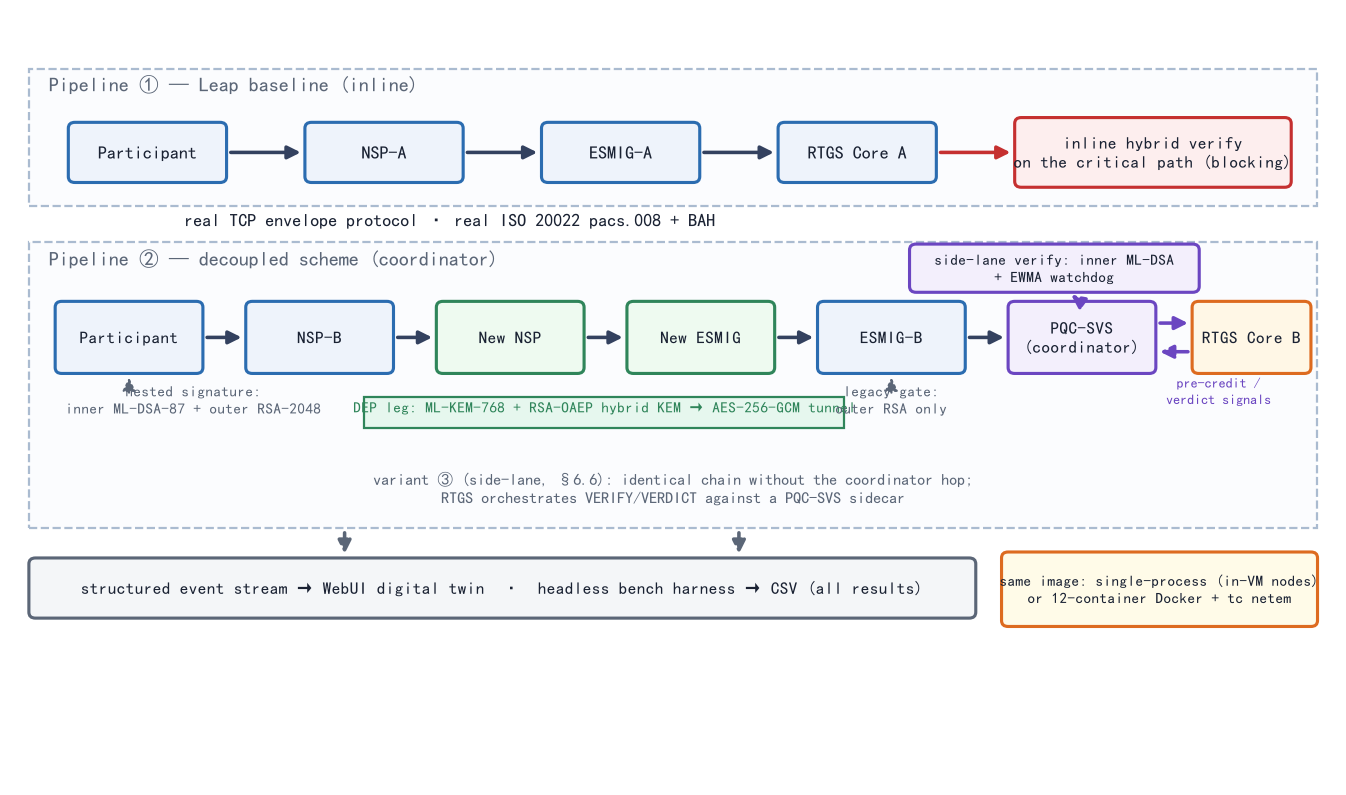
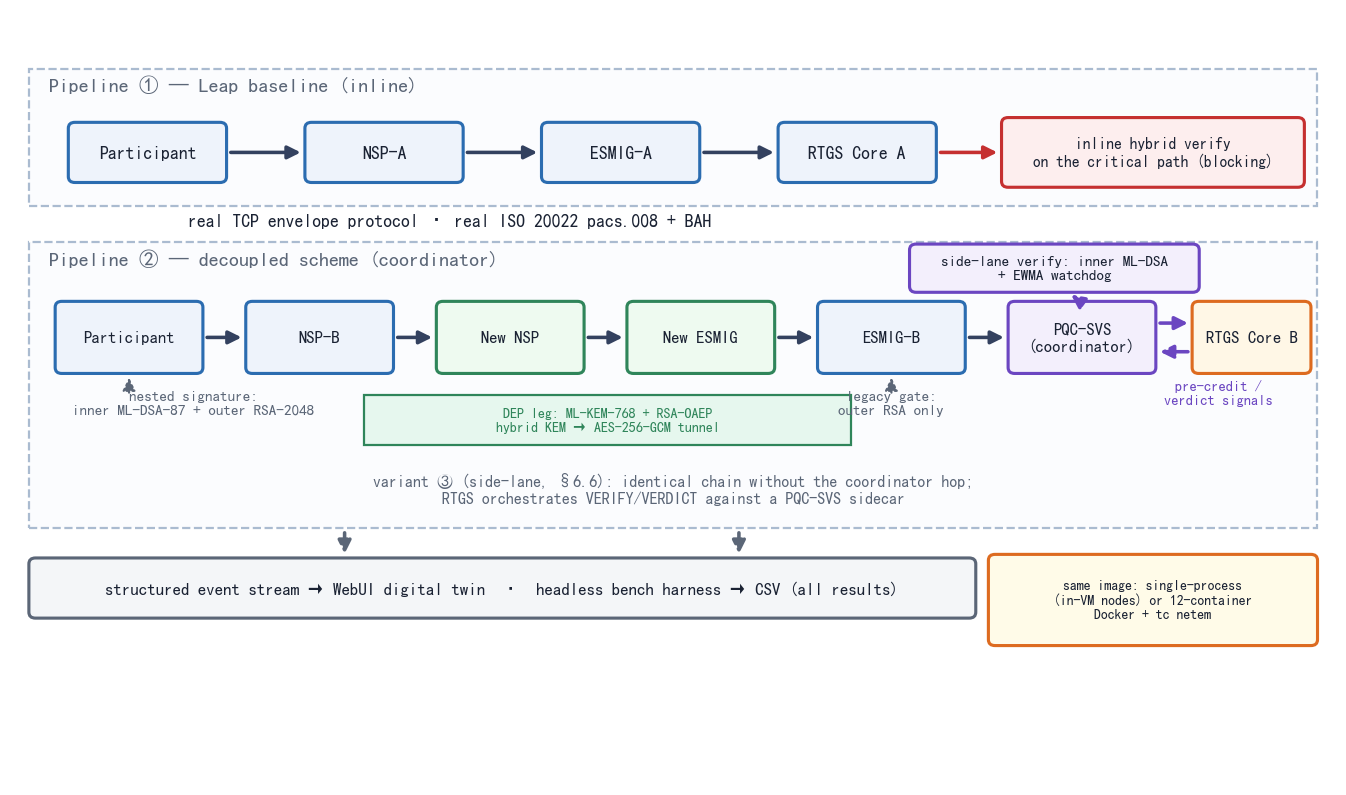
SideLane-RTGS v3.7: E10 sustained-load experiment, data correction (IEEE Access R1)
- New experiment E10 (bench/out/E10_sustained_load.csv): sustained arrival at
  the Leap operating point with equal verifier budgets for both pipelines;
  reports decision vs. final latency, final-settlement throughput, pending
  exposure, tampered vs. watchdog rollbacks, reconciliation retries, drain time.
- JAR rebuilt (Java 17 bytecode, ProGuard 7.4.2, mapping continued from v3.6):
  bounded verifier pool, in-flight guard for watchdog retries, pending-set and
  rollback counters (all default-off; E2-E9 unchanged).
- Data correction: E8_crypto_microbench.csv now matches the paper's Fig. 4 /
  Table 5 (nested verify p50 = 123.5 us); the v3.6 copy came from a different
  run.
- README: v3.7 change notes; CITATION.cff: version 3.7.
- Architecture figures regenerated (E[Tpqc] label, line wrapping).

diff --git a/bench/arch_figs.py b/bench/arch_figs.py
@@ -37,13 +37,13 @@ T = {
   "nnsp":"New NSP","nesmig":"New ESMIG","svs":"PQC-SVS\n(coordinator)",
   "inline":"inline hybrid verify\non the critical path (blocking)",
   "nested":"nested signature:\ninner ML-DSA-87 + outer RSA-2048",
-  "dep":"DEP leg: ML-KEM-768 + RSA-OAEP hybrid KEM → AES-256-GCM tunnel",
+  "dep":"DEP leg: ML-KEM-768 + RSA-OAEP\nhybrid KEM → AES-256-GCM tunnel",
   "gate":"legacy gate:\nouter RSA only",
   "precredit":"pre-credit /\nverdict signals",
   "sidelane":"side-lane verify: inner ML-DSA\n+ EWMA watchdog",
   "variantC":"variant ③ (side-lane, §6.6): identical chain without the coordinator hop;\nRTGS orchestrates VERIFY/VERDICT against a PQC-SVS sidecar",
   "obs":"structured event stream → WebUI digital twin  ·  headless bench harness → CSV (all results)",
-  "deploy":"same image: single-process (in-VM nodes)\nor 12-container Docker + tc netem",
+  "deploy":"same image: single-process\n(in-VM nodes) or 12-container\nDocker + tc netem",
   "tcp":"real TCP envelope protocol · real ISO 20022 pacs.008 + BAH",
   "f2_title":"Fig. 2  Pre-credit / async-verify / compensating-rollback (S1–S4b), coordinator topology",
   "ln":["Participant","ESMIG (legacy)","PQC-SVS (coordinator)","RTGS ledger"],
@@ -52,7 +52,7 @@ T = {
   "m_s2":"S2  pre-credit instruction",
   "m_pend":"mark Pending\n(bounded exposure)",
   "m_prov":"provisional receipt PRECREDITED  —  settlement decision ≈ 4 ms",
-  "m_s3":"S3  verify inner ML-DSA off the critical path\nwatchdog: T_timeout ≥ E[Tc] + 2·T_RTT + k·σ (EWMA, online)",
+  "m_s3":"S3  verify inner ML-DSA off the critical path\nwatchdog: T_timeout ≥ E[Tpqc] + 2·T_RTT + k·σ (EWMA, online)",
   "alt_a":"S4a — verdict VALID","m_s4a":"VERDICT: VALID","m_commit":"commit\n(settled)","m_fin_a":"final receipt SETTLED",
   "alt_b":"S4b — invalid / watchdog exhausted (≤ 20 reconcile retries)",
   "m_s4b":"VERDICT: INVALID  /  retry budget exhausted","m_roll":"compensating\nrollback","m_fin_b":"final receipt ROLLED_BACK",
@@ -64,13 +64,13 @@ T = {
   "nnsp":"New NSP","nesmig":"New ESMIG","svs":"PQC-SVS\n(协同枢纽)",
   "inline":"内联混合验签\n(关键路径·阻塞)",
   "nested":"嵌套签名:\n内 ML-DSA-87 + 外 RSA-2048",
-  "dep":"DEP 段:ML-KEM-768 + RSA-OAEP 混合 KEM → AES-256-GCM 隧道",
+  "dep":"DEP 段:ML-KEM-768 + RSA-OAEP\n混合 KEM → AES-256-GCM 隧道",
   "gate":"存量门控:\n仅验外层 RSA",
   "precredit":"预授信 /\n判定信令",
   "sidelane":"侧道验签:内层 ML-DSA\n+ EWMA 看门狗",
   "variantC":"变体③(侧道,§6.6):链路相同但无枢纽跳;\n由 RTGS 经 VERIFY/VERDICT 编排 PQC-SVS 侧车",
   "obs":"结构化事件流 → WebUI 数字孪生  ·  无头基准框架 → CSV(本文全部数据)",
-  "deploy":"同一镜像:单进程(VM 内节点)\n或 12 容器 Docker + tc netem",
+  "deploy":"同一镜像:单进程(VM 内节点)\n或 12 容器\nDocker + tc netem",
   "tcp":"真实 TCP 信封协议 · 真实 ISO 20022 pacs.008 + BAH",
   "f2_title":"图2  预授信/异步验签/补偿回滚(S1–S4b)·协同枢纽拓扑",
   "ln":["参与行","ESMIG(存量)","PQC-SVS(协同枢纽)","RTGS 账本"],
@@ -79,7 +79,7 @@ T = {
   "m_s2":"S2  预授信指令",
   "m_pend":"标记 Pending\n(敞口有界)",
   "m_prov":"临时回执 PRECREDITED — 结算决策 ≈ 4 ms",
-  "m_s3":"S3  侧道验签内层 ML-DSA(不在关键路径)\n看门狗:T_timeout ≥ E[Tc] + 2·T_RTT + k·σ(EWMA 在线)",
+  "m_s3":"S3  侧道验签内层 ML-DSA(不在关键路径)\n看门狗:T_timeout ≥ E[Tpqc] + 2·T_RTT + k·σ(EWMA 在线)",
   "alt_a":"S4a — 判定有效","m_s4a":"VERDICT: VALID","m_commit":"最终确认\n(settled)","m_fin_a":"最终回执 SETTLED",
   "alt_b":"S4b — 判定无效 / 看门狗耗尽(≤20 次对账重试)",
   "m_s4b":"VERDICT: INVALID / 重试预算耗尽","m_roll":"补偿回滚","m_fin_b":"最终回执 ROLLED_BACK",
@@ -98,8 +98,8 @@ def fig1(L, outdir):
     for x,t in zip(xs,[L["part"],L["nsp"]+"-A",L["esmig"]+"-A",L["rtgs"]+" A"]):
         box(ax,x,y1,bw,bh,t,fs=8)
     for i in range(3): arrow(ax,(xs[i]+bw,y1+bh/2),(xs[i+1],y1+bh/2))
-    box(ax,76,y1-0.4,21,5.8,L["inline"],fc="#fdeeee",ec=RED,fs=7.5)
-    arrow(ax,(xs[3]+bw,y1+bh/2),(76,y1+2.5),color=RED)
+    box(ax,75,y1-0.4,23,5.8,L["inline"],fc="#fdeeee",ec=RED,fs=7.0)
+    arrow(ax,(xs[3]+bw,y1+bh/2),(75,y1+2.5),color=RED)
     # —— 流水线② 方案 ——
     ax.add_patch(Rectangle((1,21),98,24,fc="#fbfcfe",ec="#aabbd0",lw=1.0,ls="--"))
     ax.text(2.5,43.0,L["p2"],fontsize=9,color=GREY,fontweight="bold")
@@ -115,8 +115,8 @@ def fig1(L, outdir):
     arrow(ax,(89.5,y2+1.8),(xs2[5]+w2,y2+1.8),color=PUR,ls="--")
     ax.text(91.5,y2-2.6,L["precredit"],fontsize=6.5,ha="center",color=PUR)
     # DEP 隧道带
-    ax.add_patch(Rectangle((26.5,y2-4.6),36.5,2.6,fc="#e6f7ee",ec=GREEN,lw=1.0))
-    ax.text(44.8,y2-3.3,L["dep"],fontsize=6.6,ha="center",color=GREEN)
+    ax.add_patch(Rectangle((26.5,y2-6.0),37,4.2,fc="#e6f7ee",ec=GREEN,lw=1.0))
+    ax.text(45,y2-3.9,L["dep"],fontsize=6.3,ha="center",va="center",color=GREEN)
     # 注释:嵌套签名 / 门控 / 侧道验签
     ax.text(13.5,y2-3.4,L["nested"],fontsize=6.8,ha="center",color=GREY)
     arrow(ax,(8.6,y2-2.0),(8.6,y2),color=GREY,lw=1.0,ls=":")
@@ -130,7 +130,7 @@ def fig1(L, outdir):
     ax.text(33,46.3,L["tcp"],fontsize=8,ha="center",color=INK)
     box(ax,1,13.5,72,5,L["obs"],fc="#f4f6f8",ec=GREY,fs=7.6)
     arrow(ax,(25,21),(25,18.5),color=GREY,ls="--"); arrow(ax,(55,21),(55,18.5),color=GREY,ls="--")
-    box(ax,75,12.8,24,6.2,L["deploy"],fc="#fffbe8",ec=ORANGE,fs=6.8)
+    box(ax,74,11.2,25,7.6,L["deploy"],fc="#fffbe8",ec=ORANGE,fs=6.2)
     save(fig,outdir,"fig1_testbed")
 
 # ============================== 图2 时序 ==============================
@@ -152,8 +152,8 @@ def fig2(L, outdir):
     selfnote(73.5,3,L["m_pend"],fc="#fff7e6")
     msg(68,3,0,L["m_prov"],color=ORANGE,ls="--")
     # S3 自循环(PQC-SVS)
-    box(ax,X[2]-20,58.2,40,6.4,L["m_s3"],fc="#f3effc",ec=PUR,fs=6.8)
-    arrow(ax,(X[2],64.6),(X[2],61.4),color=PUR)
+    box(ax,X[2]-21,58.2,42,6.4,L["m_s3"],fc="#f3effc",ec=PUR,fs=6.4)
+    arrow(ax,(X[2],66.8),(X[2],64.9),color=PUR)
     # alt 框
     ax.add_patch(Rectangle((3,10),94,44,fc="none",ec=GREY,lw=1.2))
     ax.text(4.5,52.0,"alt",fontsize=8,color=GREY,fontweight="bold")

diff --git a/README.md b/README.md
@@ -41,7 +41,7 @@ sim/docker/      Dockerfile + compose topologies (single image / 12-container ti
 setup-windows.bat                Windows one-click env-check + launcher menu
 setup-ubuntu.sh                  Linux one-click env-check + launcher menu
 sim/run_webui.ps1 / .sh          Interactive WebUI launcher (Windows / Linux)
-bench/run_bench.ps1 / .sh        One-click experiments E2–E8 → bench/out/*.csv
+bench/run_bench.ps1 / .sh        One-click experiments E2–E8 and E10 → bench/out/*.csv
 bench/e9_wan.py, e9_wan.ps1      Cross-container WAN-shaping harness (E9)
 bench/plot.py                    Regenerate all charts from CSVs (plot_cn.py: Chinese labels)
 bench/arch_figs.py               Regenerate architecture & sequence diagrams (Fig. 1–2)
@@ -66,7 +66,7 @@ No build step. Uses `native/windows-x64/dllpqcpro.dll`.
 # interactive digital-twin WebUI at http://127.0.0.1:8080
 powershell -ExecutionPolicy Bypass -File sim/run_webui.ps1
 
-# headless: run experiments E2-E8 (all, or a subset: e2 e5 ...)
+# headless: run experiments E2-E8 + E10 (all, or a subset: e2 e5 e10 ...)
 powershell -ExecutionPolicy Bypass -File bench/run_bench.ps1
 ```
 
@@ -83,7 +83,7 @@ Or run the launchers directly. Prereqs: Java 17+ runtime on `PATH`
 # interactive digital-twin WebUI at http://127.0.0.1:8080
 bash sim/run_webui.sh
 
-# headless: run experiments E2-E8 (all, or a subset: e2 e5 ...)
+# headless: run experiments E2-E8 + E10 (all, or a subset: e2 e5 e10 ...)
 bash bench/run_bench.sh
 ```
 
@@ -137,3 +137,17 @@ Scripts and data (`bench/`, `sim/docker/` build files): research/evaluation use 
 Executables (`sim/app/sidelane-sim.jar`, `native/` libraries): proprietary, run-only for
 research/replication, redistribution restricted — see [LICENSE](LICENSE) and `native/README.md`.
 Third-party components: see [THIRD_PARTY_NOTICES.md](THIRD_PARTY_NOTICES.md).
+
+## Changes in v3.7 (IEEE Access revision R1, September 2026)
+
+- **New experiment E10** (`bench/out/E10_sustained_load.csv`): sustained arrival at the Leap operating
+  point (verify = 210 ms) with *equal verifier budgets* for both pipelines (`W` = 1 or 4 bounded verifier
+  workers, applied to the inline baseline and to the side-lane verifier alike). Reports decision vs. final
+  latency, final-settlement throughput, maximum pending count / exposure, tampered vs. watchdog-induced
+  rollbacks, reconciliation retries and drain time. Run with `run_bench e10`.
+- **Node options** (used by E10 only; default off, so E2–E9 behave exactly as in v3.6): a bounded verifier
+  pool (`verifierWorkers`), an in-flight guard so that watchdog retries do not enqueue duplicate
+  verifications, a pending-set counter (`pendingCount`) and rollback counters.
+- **Data correction**: the `E8_crypto_microbench.csv` shipped in v3.6 came from a different (slower,
+  non-native) run than the one plotted in the paper's Fig. 4 / Table 5. v3.7 ships the CSV that matches
+  the paper (nested verify p50 = 123.5 µs). No number in the paper changes.
